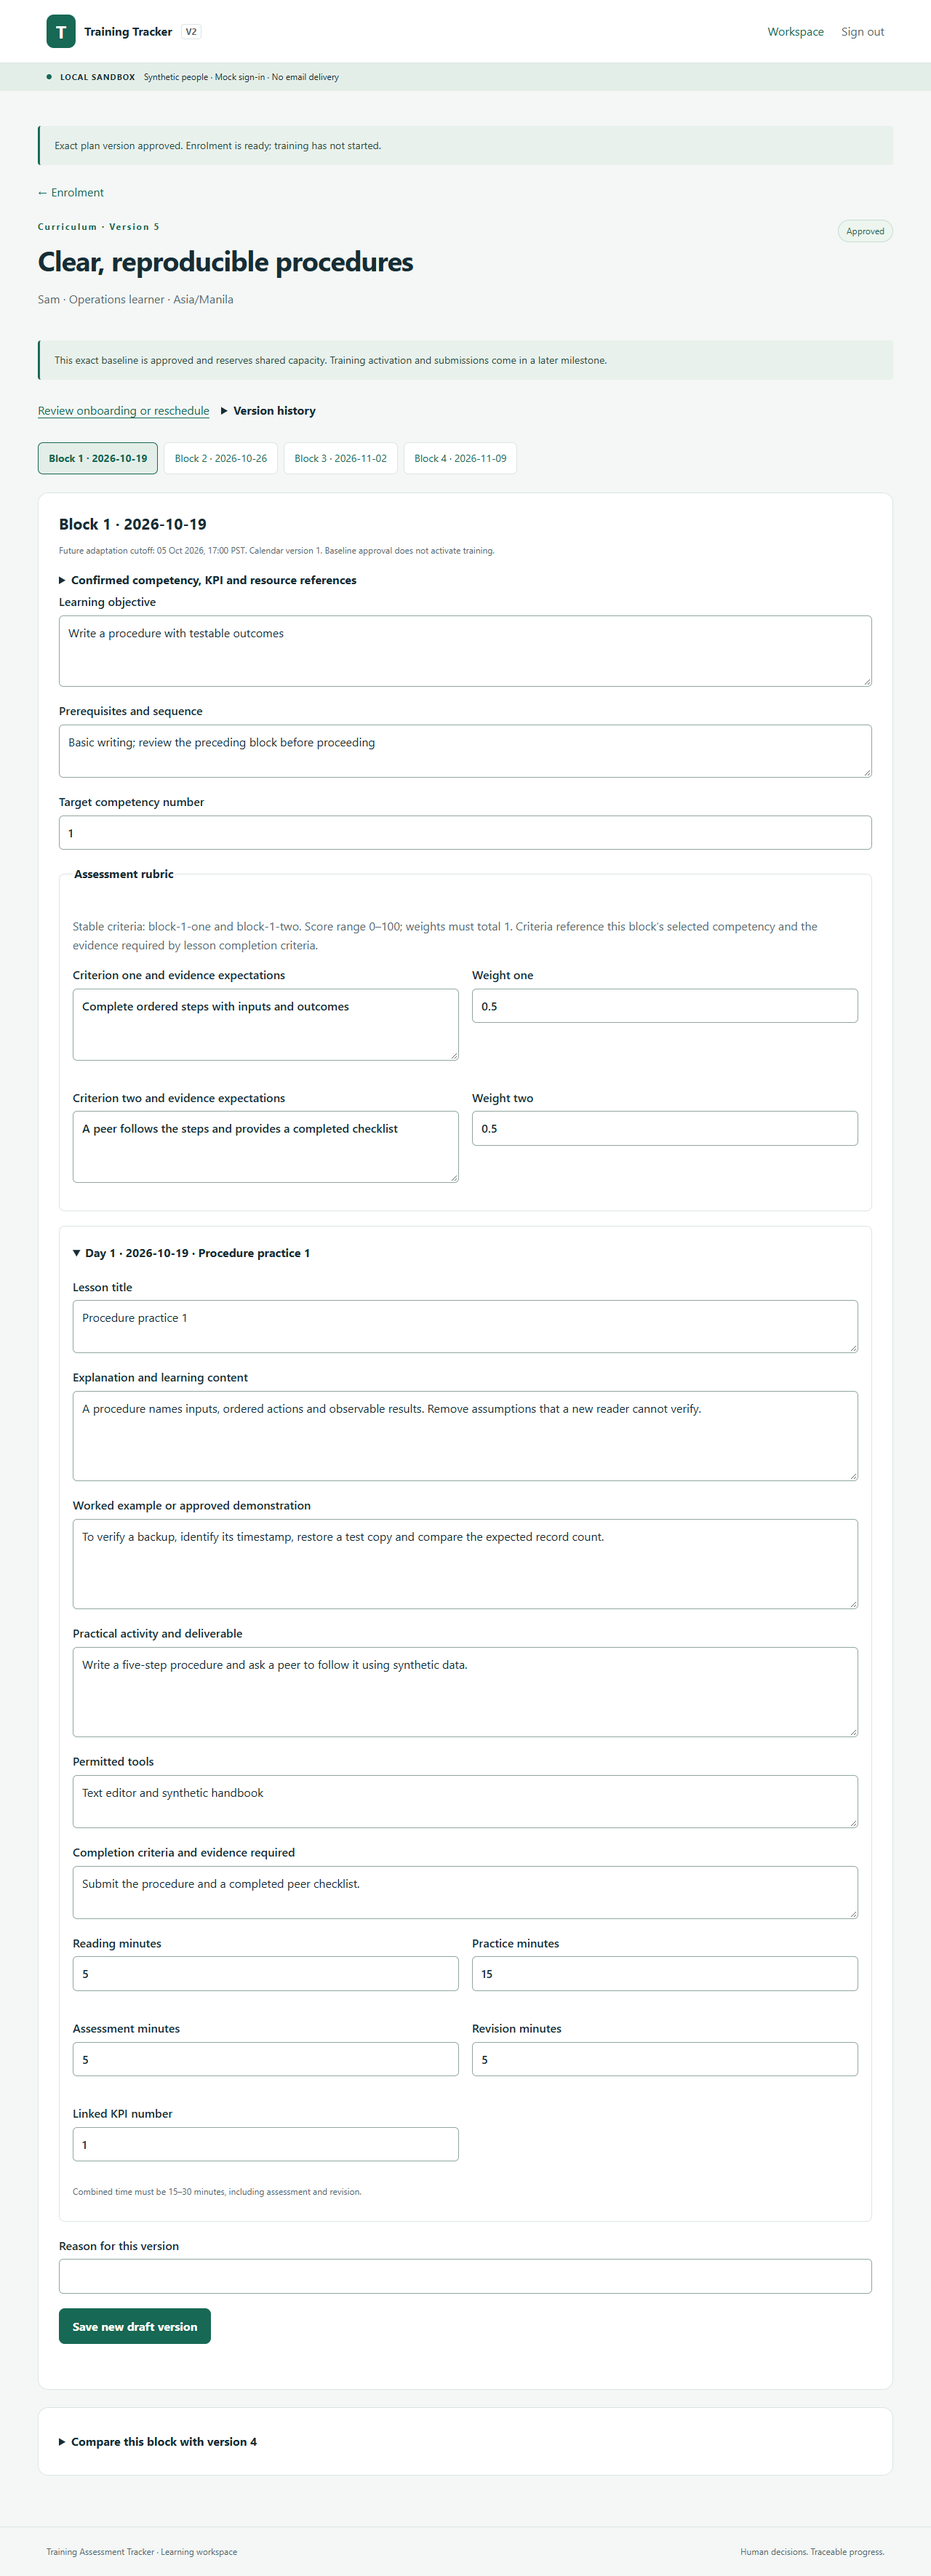
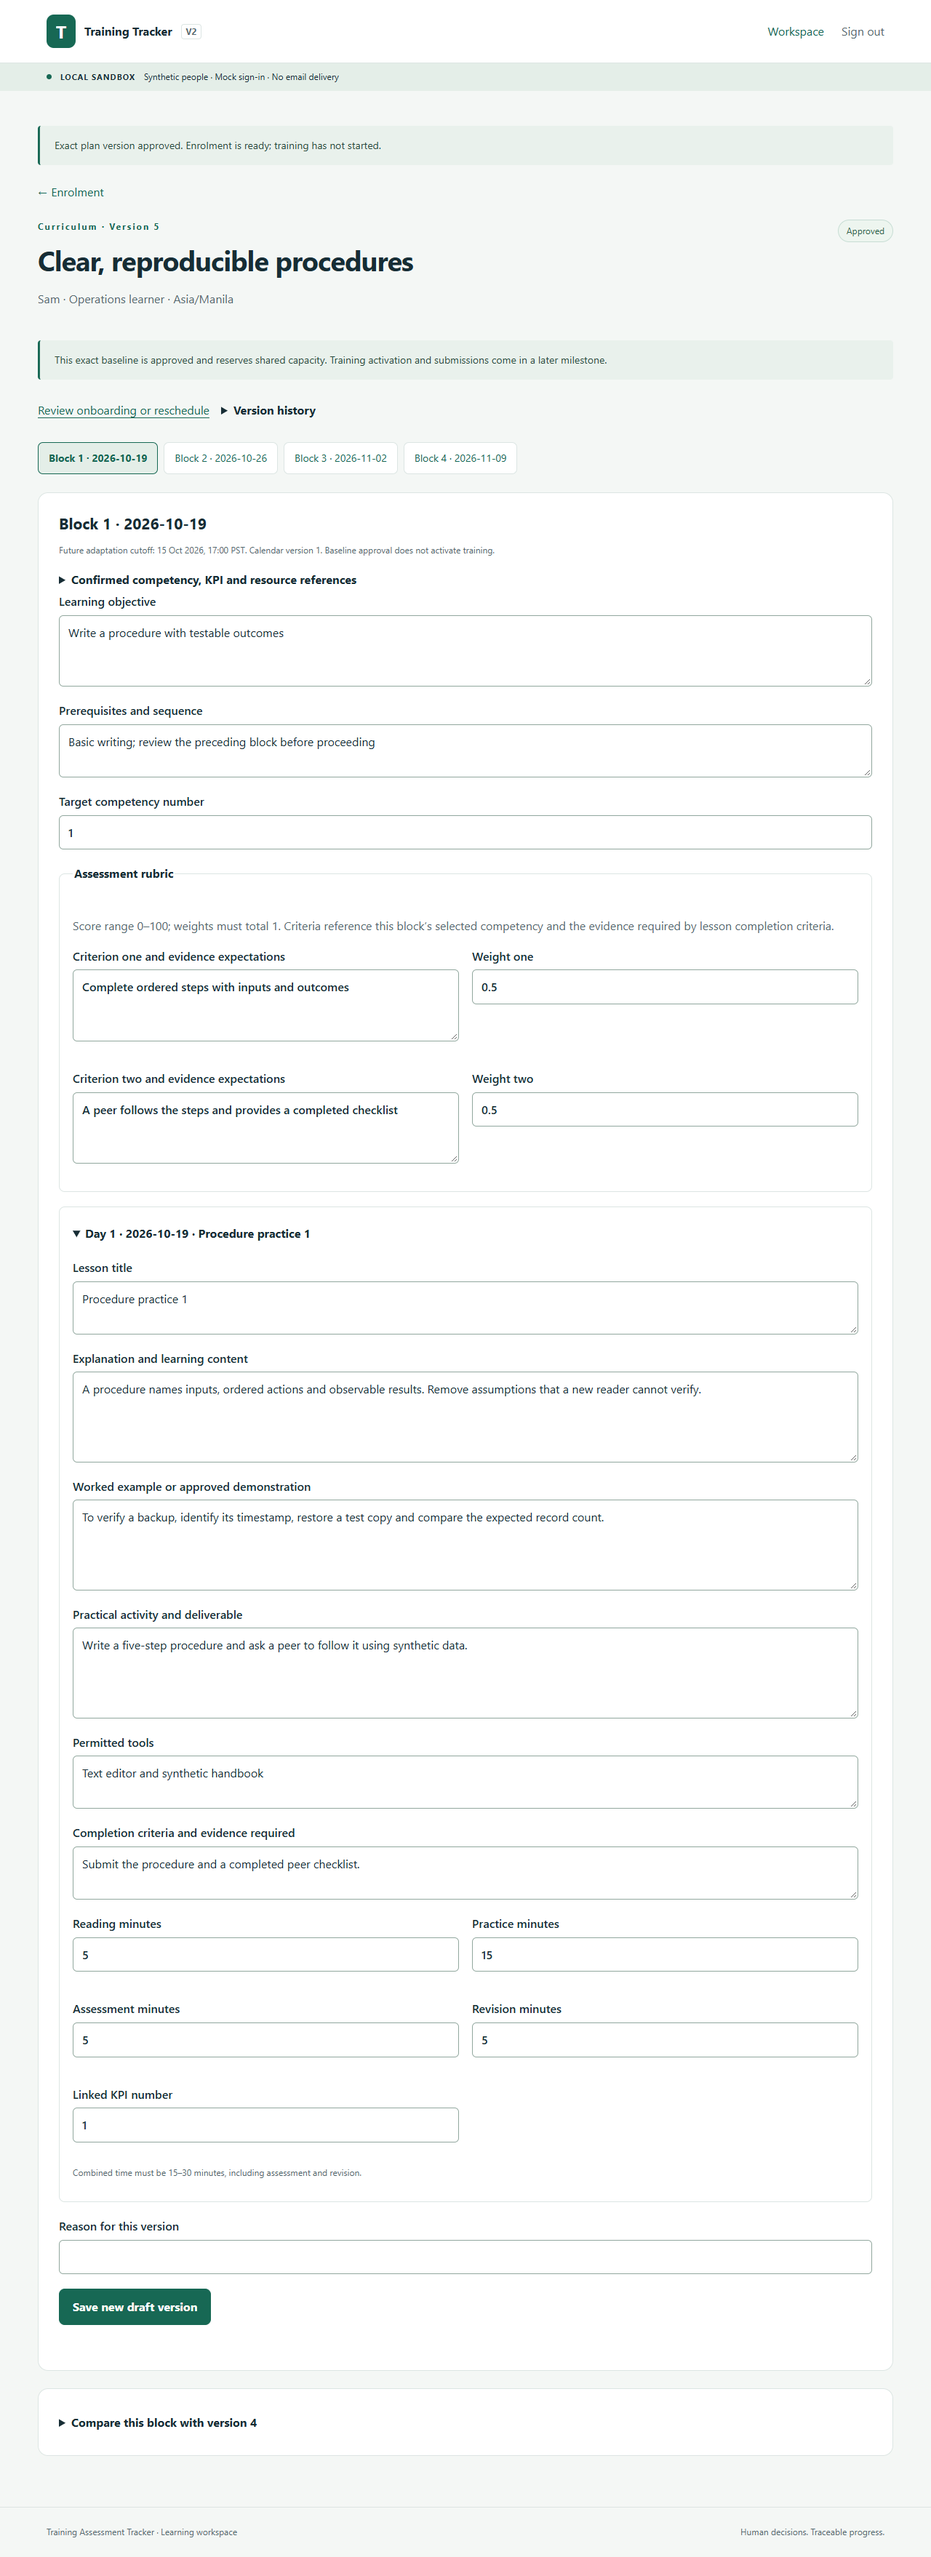
Refresh verified milestone screenshots and test evidence

diff --git a/platform/docs/MILESTONE_02.md b/platform/docs/MILESTONE_02.md
@@ -29,7 +29,7 @@ This increment implements the local B03 learning setup journey. AI generation, l
 
 ## Verification
 
-Local verification on 1 October 2026: SQLite 42 tests / 203 assertions; MariaDB 44 tests / 221 assertions; all five Chrome browser tests passed (3.3 minutes). Pint, Composer validation, Blade compilation and a non-destructive local setup run passed. Screenshots were visually reviewed: [mobile draft recovery](evidence/onboarding-mobile.png), [approved curriculum editor](evidence/curriculum-approved.png). GitHub checks on the PR provide the clean-checkout result.
+Local verification on 1 October 2026: SQLite 42 tests; MariaDB 44 tests; all five Chrome browser tests passed. The final two onboarding/editor browser tests passed again after the submission and business-day fixes. Pint, Composer validation, Blade compilation and a non-destructive local setup run passed. Screenshots were visually reviewed: [mobile draft recovery](evidence/onboarding-mobile.png), [approved curriculum editor](evidence/curriculum-approved.png). GitHub checks on the PR provide the clean-checkout result.
 
 Executable coverage lives in:
 - `tests/Feature/LearningTest.php`: persistence, stale-save conflicts, role/scope/confirmation boundaries, all duration and minute limits, holiday/timezone cutoffs, lesson/rubric validation, exact approvals, immutable history, overlapping plans, calendar conflicts and revocation/self-approval rejection.
